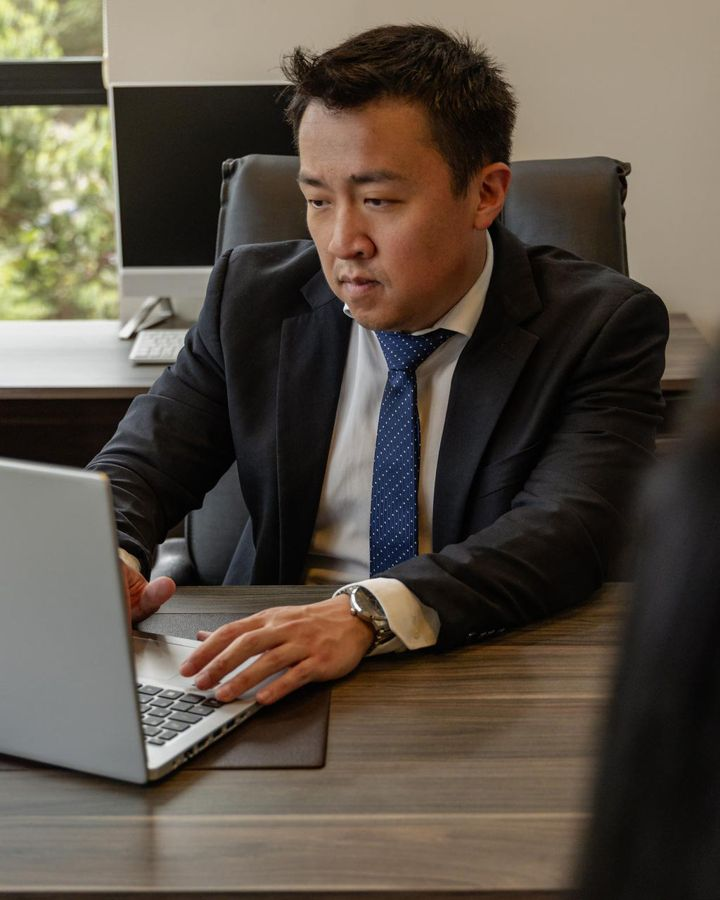
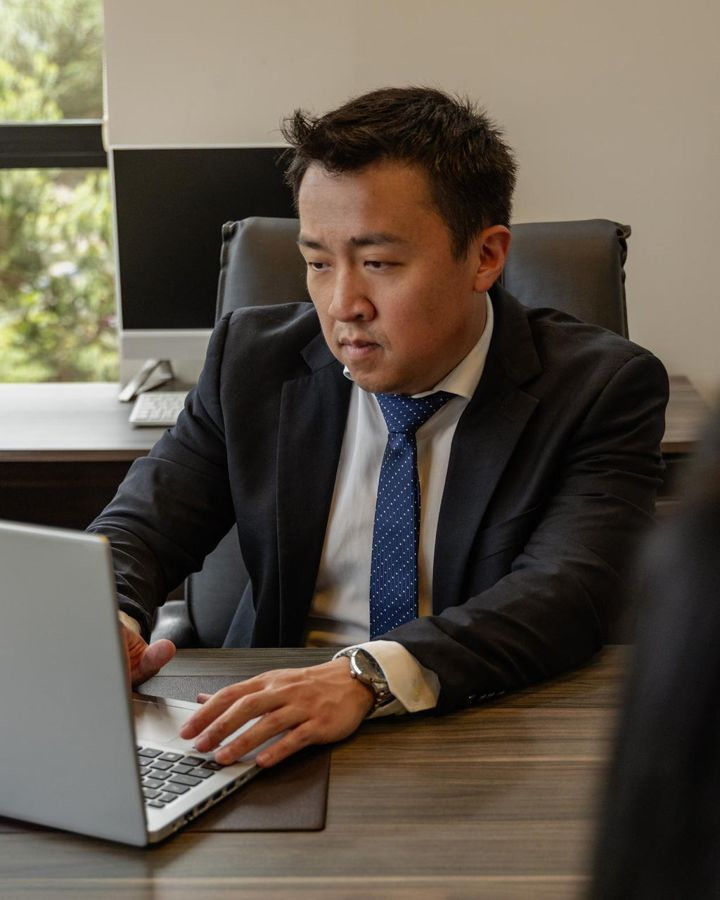
Reenquadra a foto da seção Atendimento para não cortar a cabeça (#3)
Claude-Session: https://claude.ai/code/session_013DkQwPHHz783JeP3eyJXkj

diff --git a/index.html b/index.html
@@ -117,8 +117,8 @@ section.block { padding-block: 88px; border-bottom: 1px solid var(--rule); }
 .split h2 { font-size: clamp(1.55rem, 2.8vw, 2.1rem); }
 .prose { display: grid; gap: 18px; max-width: 40em; }
 .side-photo { margin: 14px 0 0; max-width: 340px; }
-.side-photo img { display: block; width: 100%; height: auto; aspect-ratio: 4 / 5; object-fit: cover; object-position: 50% 25%; }
-@media (max-width: 860px) { .side-photo { max-width: 100%; } .side-photo img { aspect-ratio: 4 / 3; } }
+.side-photo img { display: block; width: 100%; height: auto; aspect-ratio: 4 / 5; object-fit: cover; object-position: 50% 0%; }
+@media (max-width: 860px) { .side-photo { max-width: 420px; } .side-photo img { aspect-ratio: 1 / 1; } }
 .prose p { color: var(--ink); }
 
 .areas { display: grid; grid-template-columns: repeat(3, minmax(0, 1fr)); gap: 0; border-top: 2px solid var(--ink); }
